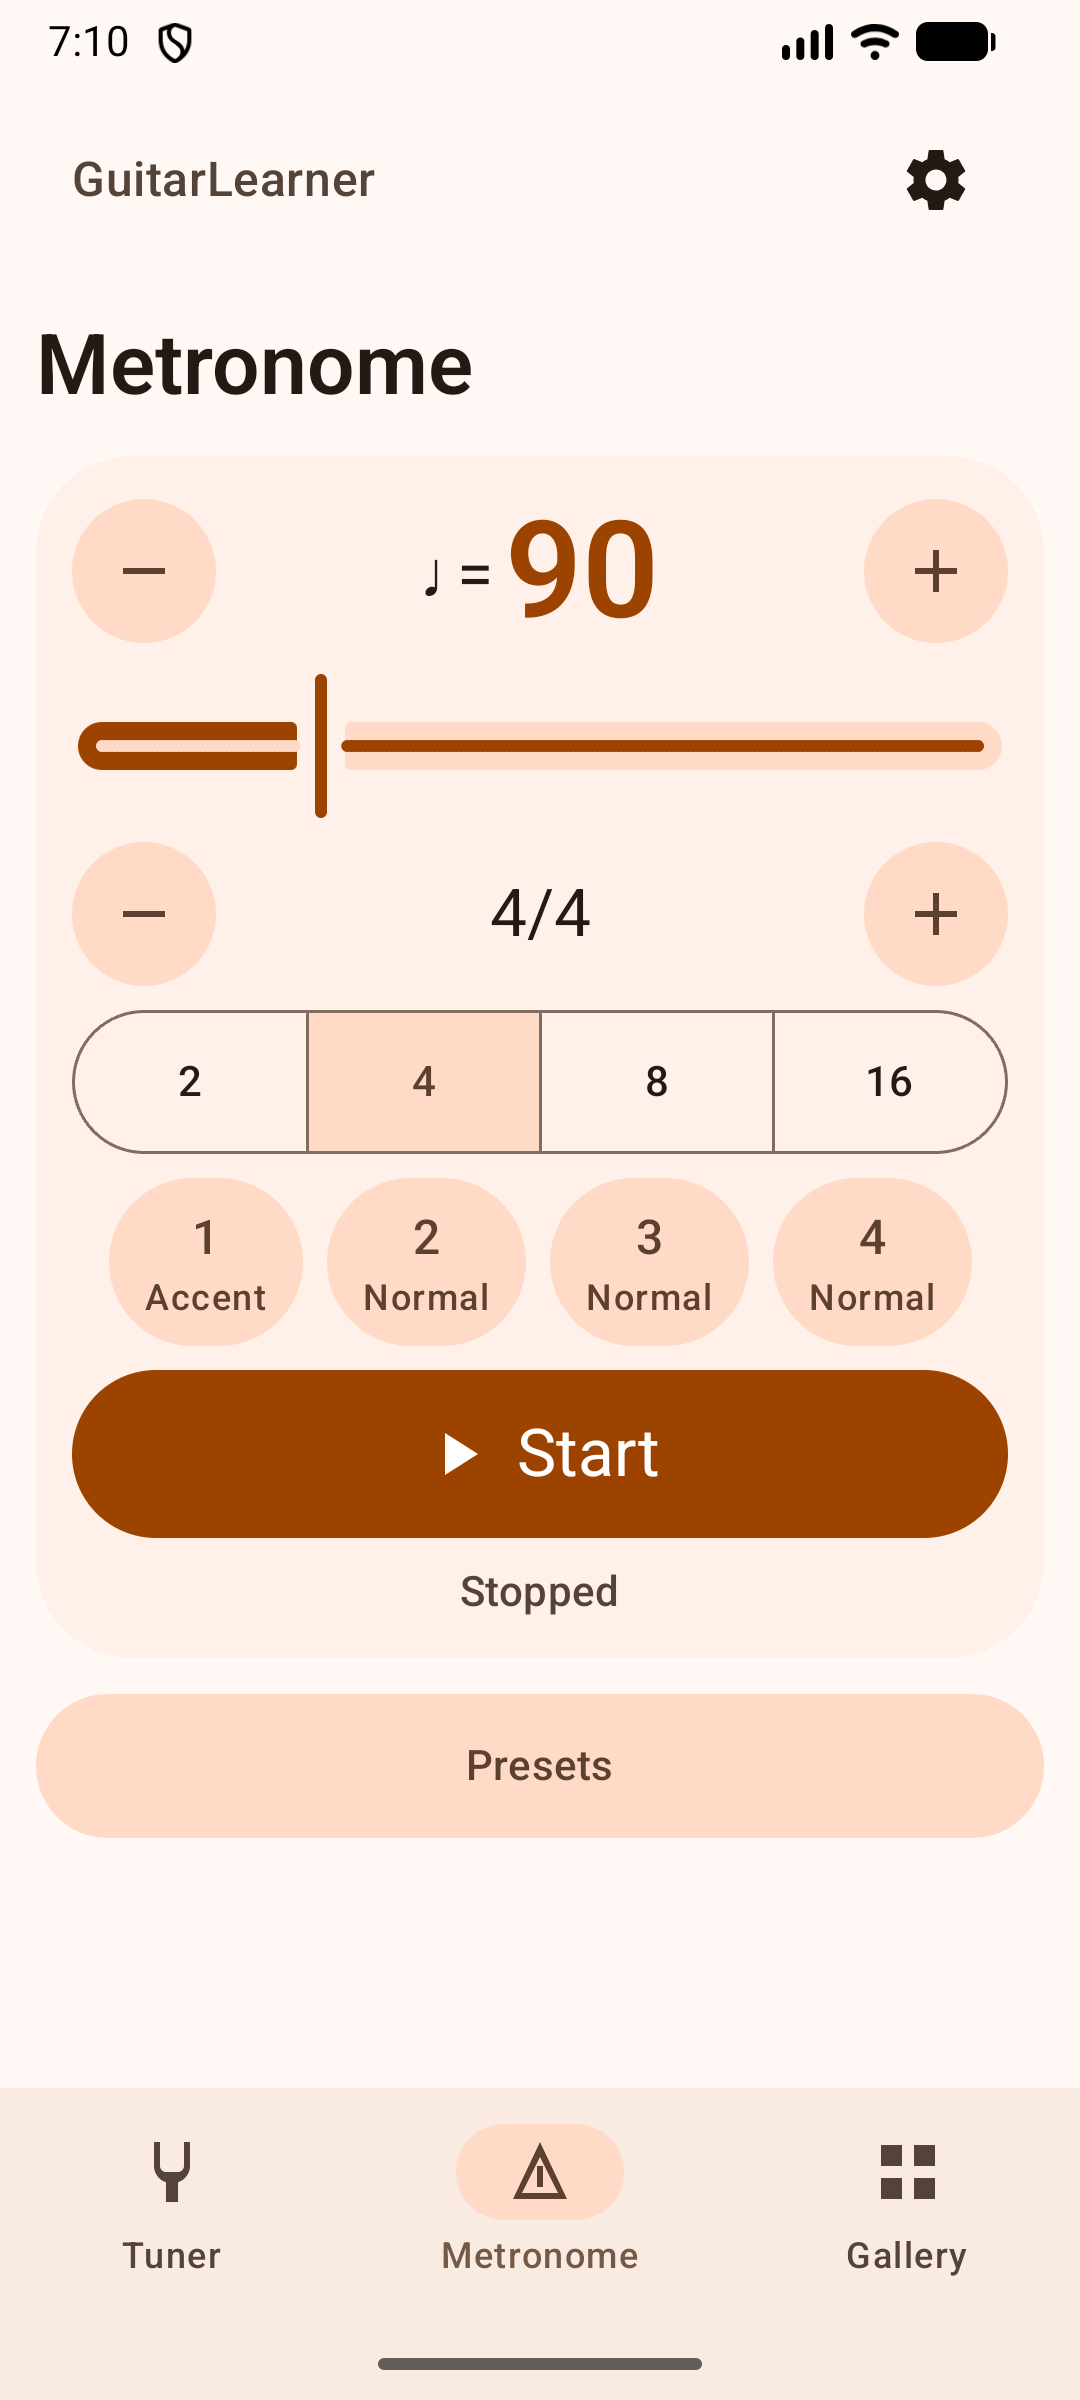
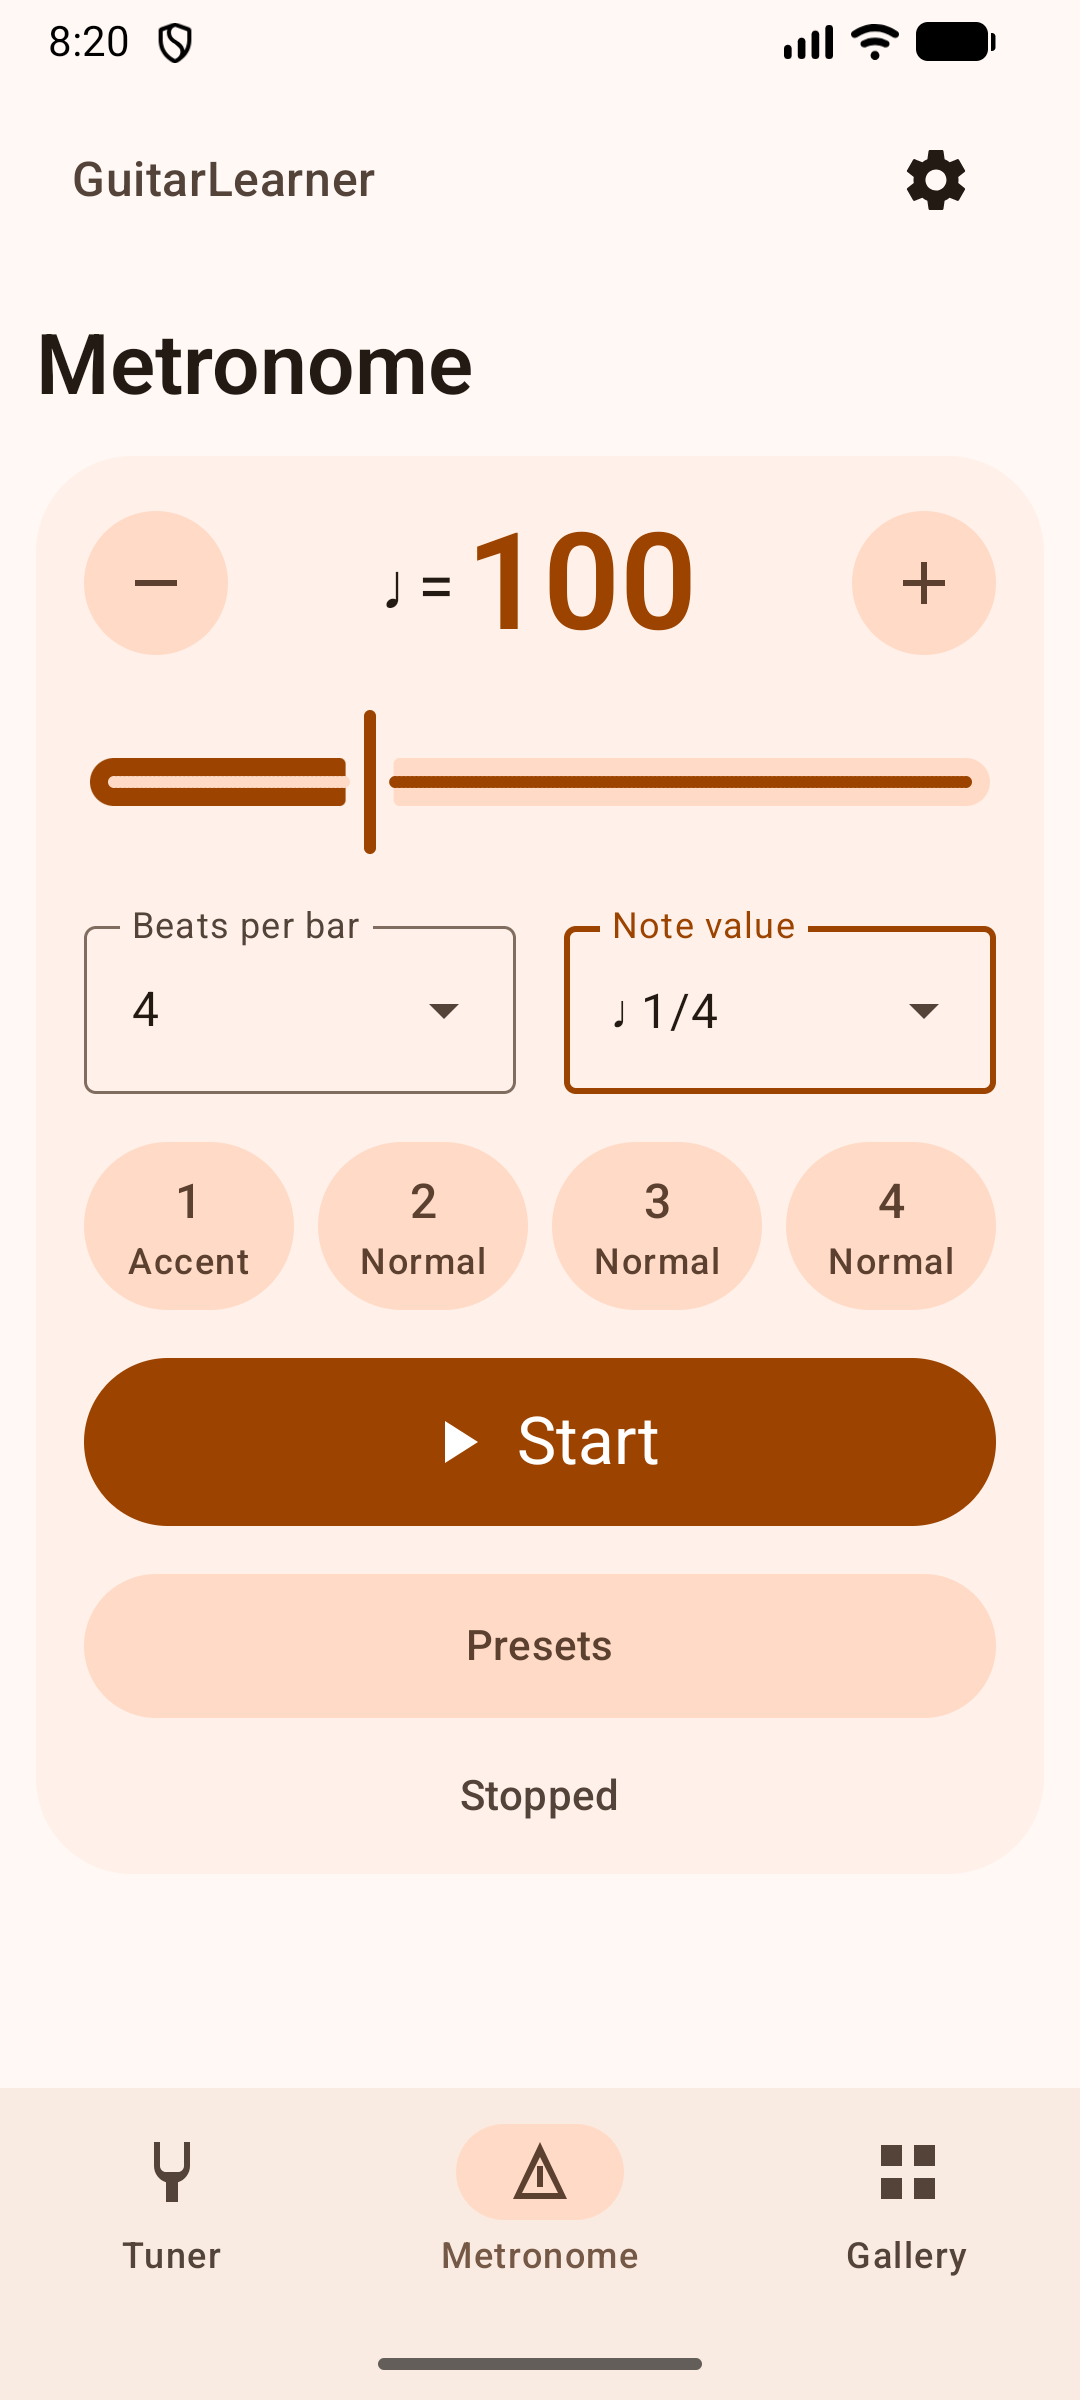
docs: record fixed-grid metronome verification

diff --git a/docs/compact-metronome-verification.md b/docs/compact-metronome-verification.md
@@ -1,10 +1,20 @@
 # Compact metronome verification
 
-Verified on 2026-10-04 for [issue #7](https://github.com/pekochan069/GuitarLearner/issues/7), its [confirmed contract](https://github.com/pekochan069/GuitarLearner/issues/7#issuecomment-5976527408), and the later [quarter-note BPM correction](https://github.com/pekochan069/GuitarLearner/issues/7#issuecomment-5977297604).
+Verified on 2026-10-04 for [issue #7](https://github.com/pekochan069/GuitarLearner/issues/7), its [confirmed contract](https://github.com/pekochan069/GuitarLearner/issues/7#issuecomment-5976527408), the [quarter-note BPM correction](https://github.com/pekochan069/GuitarLearner/issues/7#issuecomment-5977297604), and the [fixed-grid and equal-size correction](https://github.com/pekochan069/GuitarLearner/issues/7#issuecomment-5977895105).
 
 ## Result
 
 The main practice surface combines tempo, meter, interactive beat accents, and Start/Stop. Default 4/4 at 360 × 800 dp fits without scrolling. Static introductory content and the permanent second accent editor are removed. Presets open in a native Material 3 bottom sheet; save, load, overwrite confirmation, delete, and entered-name restoration remain available.
+
+Meter selection uses two equally wide, labeled native Material 3 exposed dropdowns. Every beat cell has the same width and height across all rows, measured against all ordinals and localized accent labels. Accent changes and playing/pending status cannot resize or move the beat cells, Start, or Presets. The last row reserves vacant cell positions. Practice sections use 16 dp spacing.
+
+| Beats per bar | Columns per row |
+| --- | --- |
+| 1–4 | Same as beats per bar |
+| 6, 9, 12, 15 | 3 |
+| 5, 7, 8, 10, 11, 13, 14, 16 | 4 |
+
+Columns stay fixed at large text sizes. When the measured grid exceeds the viewport, all rows scroll horizontally together; the practice page scrolls vertically. This supersedes the earlier width-dependent wrapping. Start and Presets precede variable status and pending-change text.
 
 BPM now always refers to quarter notes. At 90 BPM and 48 kHz, click spacing is 64,000 frames for half notes, 32,000 for quarter notes, 16,000 for eighth notes, and 8,000 for sixteenth notes. The numeric BPM, saved preset fields, and version 1 storage format are unchanged. Existing non-quarter presets therefore play at the new quarter-reference rate.
 
@@ -29,11 +39,17 @@ pwsh -File scripts/verify-boundary-guard.ps1
 
 The static checks passed. JUnit XML reports 65 local tests with zero failures or skips: architecture lint 20, domain 13, adapters 22, and presenter 10. All three forbidden-dependency probes were rejected and their temporary build-file edits restored.
 
-On the API 37.1 emulator, the complete connected rerun reports 30 cases: 29 passed, zero failed, and one acoustic recording case explicitly skipped. These include ten controlled-output host cases, ten presentation cases, eight native playback cases, and one foundation/restoration case. Controlled-output tests exercise the real host, storage wrapper, and service with simulated output presentation; native playback tests execute AudioTrack separately.
+On the API 37.1 emulator, the complete connected rerun at the timing correction reports 30 cases: 29 passed, zero failed, and one acoustic recording case explicitly skipped. These include ten controlled-output host cases, ten presentation cases, eight native playback cases, and one foundation/restoration case. Controlled-output tests exercise the real host, storage wrapper, and service with simulated output presentation; native playback tests execute AudioTrack separately. This full run preceded the subsequent UI corrections.
 
 The first complete connected run had one failure in the existing background/recreation test. Android logged an output underrun after a 78.56 ms worker gap exceeded the existing 40 ms queue horizon at 40 BPM quarter notes. That note spacing is unchanged by this correction. The same source and APKs passed the isolated case and then the complete rerun. The failure log was retained; no buffer, threshold, or retry-code change was made. This leaves emulator scheduling sensitivity visible rather than establishing that underruns cannot occur.
 
 The final resource-only preset-close fix followed that suite. Both product lint tasks and both APK builds passed again. Native UI inspection confirmed `Close presets` and `프리셋 닫기`. The full suite was not repeated for that label-only change.
+
+For the fixed-grid follow-up, module boundaries, all product lint tasks, the same 65 local tests, and both APK builds passed. Two new accent-bounds regressions first failed against the old UI, then passed with the grid. The focused native run completed 15 passing cases, one harmless 0.00003 dp row-height comparison failure, and one aborted signature-menu test blocked by its nested coroutine fixture. The row-height comparison now permits one physical pixel, matching the existing cell-size comparisons; accent rectangle comparisons remain exact. The native signature case uses ordinary JUnit UI actions with narrowly scoped coroutine setup. A three-case rerun passed both all-meter geometry cases and native live signature replacement. Together these runs provide passing coverage for all 17 selected cases, rather than one uninterrupted 17-case pass.
+
+The final native Stop case passed separately with added rendered-state assertions: exact host `Stopped(User)`, service removal, cleared diagnostics, localized Stopped status, Start label, and no current-beat marker. These assertions were added after a manual capture continued showing Playing despite service removal. That observation was not reproduced by the controlled case; its screenshots and thread dump remain available. No production host change was made for it.
+
+During manual follow-up playback the emulator logged another underrun after a 58.172 ms worker gap exceeded the existing 40 ms queue horizon. The UI exposed the recoverable failure. Audio buffering and failure thresholds remain unchanged; the retained evidence does not establish scheduling robustness.
 
 Meaningful regression evidence includes:
 
@@ -45,16 +61,18 @@ Meaningful regression evidence includes:
 
 ## Native UI inspection
 
-The latest APK was inspected through ADB screenshots and accessibility trees at 360 × 800 dp portrait and 800 × 360 dp landscape. The following 16-beat, 200% text combinations were inspected at their upper and lower scroll positions:
+The fixed-grid APK was inspected through ADB screenshots and accessibility trees at 360 × 800 dp portrait and 800 × 360 dp landscape. The following 16-beat, 200% text combinations were inspected through their scroll positions:
 
 | Language | Theme | Portrait | Landscape |
 | --- | --- | --- | --- |
-| English | Light | Controls wrap; Start and Presets reachable | Controls reachable by vertical scroll |
-| English | Dark | Controls wrap; Start and Presets reachable | Controls reachable by vertical scroll |
-| Korean | Light | Controls wrap; Start and Presets reachable | Controls reachable by vertical scroll |
-| Korean | Dark | Controls wrap; Start and Presets reachable | Controls reachable by vertical scroll |
+| English | Light | Meter fields stack; grid scrolls horizontally; lower controls reachable | Fixed grid and lower controls reached by vertical scroll |
+| English | Dark | Meter fields stack; grid scrolls horizontally; lower controls reachable | Lower controls reached by vertical scroll |
+| Korean | Light | Meter fields stack; four grid columns fit; lower controls reachable | Meter fields and lower controls inspected by vertical scroll |
+| Korean | Dark | Meter fields stack; four grid columns fit; lower controls reachable | Fixed grid and lower controls inspected by vertical scroll |
 
-Default English/light and Korean/dark 4/4 views show all practice controls and the preset entry without scrolling. Beat taps visibly cycled Accent → Normal → Mute → Accent. Start, a live quarter-to-eighth edit, Stop, and the complete preset save/overwrite/load/delete journey were exercised. The temporary review preset was deleted. Automated UI assertions verify individual beat actions, 16-beat wrapping, truthful desired/applied state, restoration, and actual touch bounds of at least 48 dp. The native Slider's 44 dp input area was enlarged through the native Thumb layout; the 48 dp assertion was retained.
+Default English/light and Korean/dark 4/4 views show all practice controls and the preset entry without scrolling. In the English 8/8 view every beat is exactly 210 × 168 px, and both meter fields are 432 px wide. Comparing Normal and Mute snapshots found zero movement in all eight beat rectangles plus Start and Presets. Direct native touches changed a playing 4/4 configuration to 7/4 and then 7/8 while retaining the same foreground-service record.
+
+Automated UI assertions verify equal widths/heights and the prescribed row count for all 16 supported numerators at normal and 200% text, exact bounds across accent cycles, stable transport/preset bounds when pending text appears, truthful desired/applied state, preset save/overwrite/load/delete, restoration, and actual touch bounds of at least 48 dp. The earlier compact-UI inspection exercised the full native preset journey and deleted its temporary preset. The native Slider's 44 dp input area was enlarged through the native Thumb layout; the 48 dp assertion was retained.
 
 The existing app-wide navigation labels clip horizontally in 200% portrait text. Metronome controls remain readable and reachable. Home navigation is excluded by the confirmed contract; this is a remaining layout limitation, not an all-app large-text pass.
 
@@ -62,9 +80,13 @@ The existing app-wide navigation labels clip horizontally in 200% portrait text.
 | --- | --- |
 | ![English compact practice controls](screenshots/compact-metronome/default-en-light.png) | ![Korean compact practice controls](screenshots/compact-metronome/default-ko-dark.png) |
 
+![Eight equal beat cells in two fixed rows](screenshots/compact-metronome/eight-beat-grid.png)
+
 | English 200% text after scroll | English landscape 200% text after scroll |
 | --- | --- |
-| ![16 beats and lower controls with large text](screenshots/compact-metronome/large-text-portrait.png) | ![Start control in a short landscape window](screenshots/compact-metronome/large-text-landscape.png) |
+| ![Fixed grid and lower controls with large text](screenshots/compact-metronome/large-text-portrait.png) | ![Start and Presets in a short landscape window](screenshots/compact-metronome/large-text-landscape.png) |
+
+![The same grid scrolled to its rightmost columns](screenshots/compact-metronome/large-text-portrait-right.png)
 
 ## Review and limits
 
